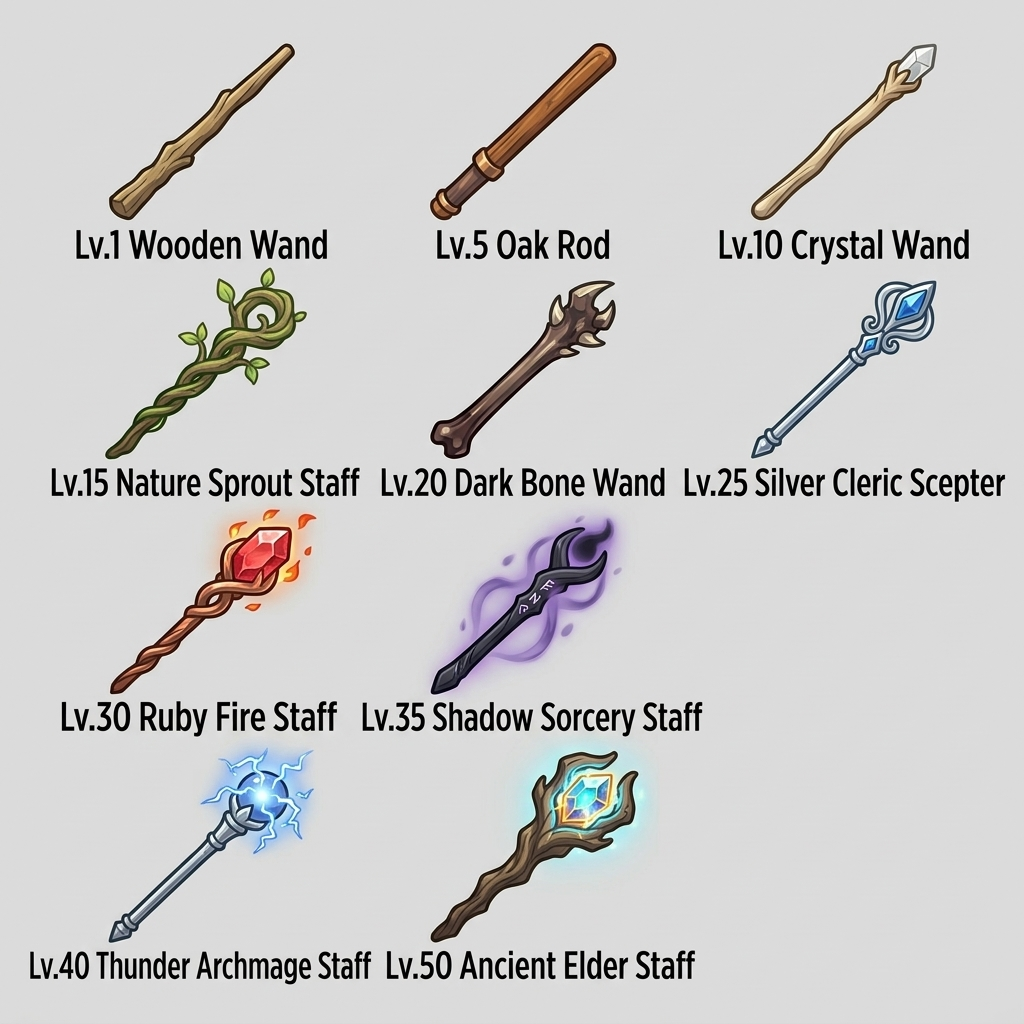
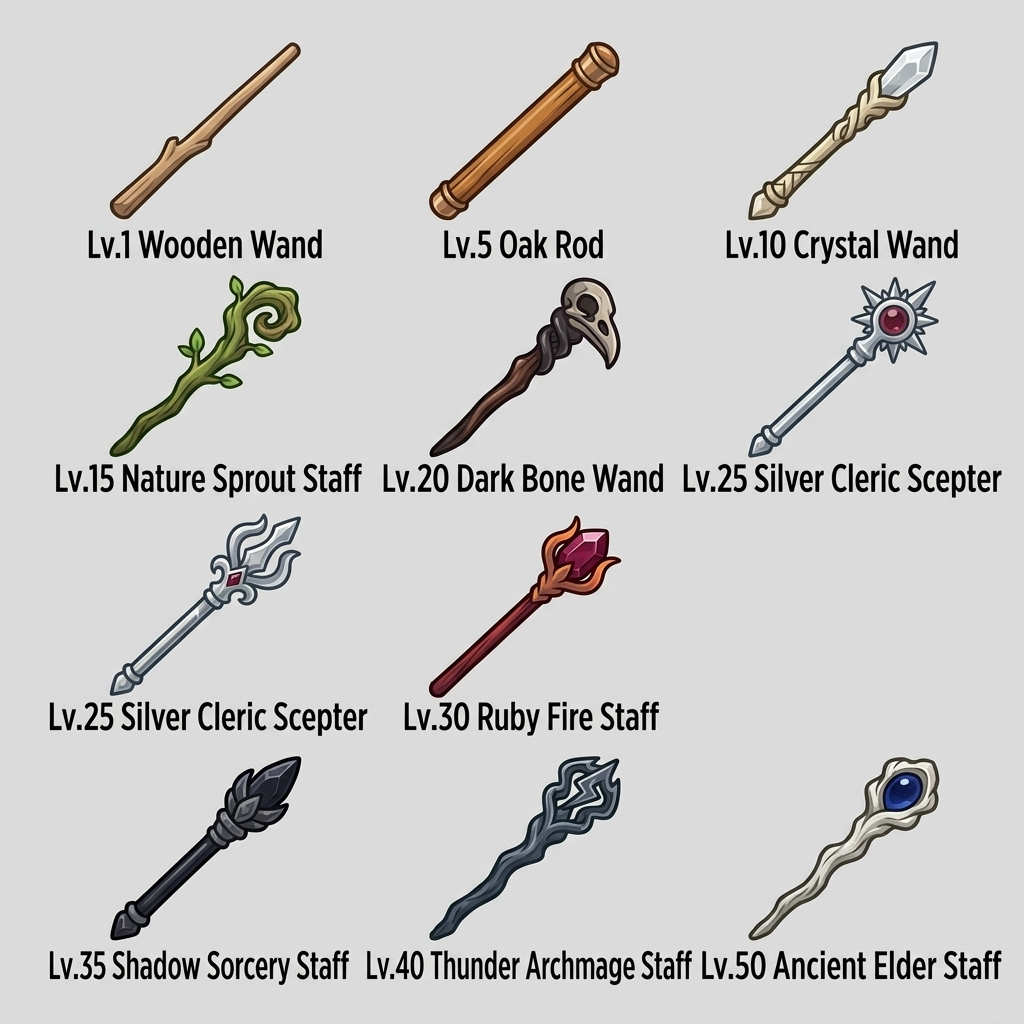
.

Changed region(s): [[0.0312, 0.0312, 1.0, 0.9688]]

diff --git a/ITEMS_AND_WEAPONS.md b/ITEMS_AND_WEAPONS.md
@@ -397,37 +397,43 @@ assets/weapons/
 
 ---
 
-## 5. คู่มือ Prompt สำหรับสร้างภาพ Sprite Sheet (Image Generation Guide)
+## 5. คู่มือ Prompt สำหรับสร้างภาพ Sprite Sheet (23 Pieces Layout, No Effects)
 
-เมื่อโควตาภาพรีเซ็ต หรือต้องการนำไปรันใน Midjourney / DALL-E / Gemini สามารถใช้ชุด Prompt ด้านล่างนี้ โดยกำหนด **Aspect Ratio 1:1 (1024x1024)**, พื้นหลังสีเทาอ่อนสะอาดตา (#E2E2E2) และโครงสร้าง 10 ชิ้นต่อแผ่นตามลำดับ:
+โครงสร้างเหมือนชุดดาบ (Sword) ทุกประการ:
+- **จำนวนชิ้น**: รวม 23 ชิ้นต่อประเภท แบ่งเป็น **Tier 1 (11 ชิ้น)** และ **Tier 2 (12 ชิ้น)**
+- **ขนาดและสเกล**: ทุกชิ้นมีขนาดเท่ากัน (Uniform scale) เอียง 45 องศา
+- **ไม่มี Visual Effect**: ไม่มีไฟ น้ำแข็ง สายฟ้า แสงออร่า ลำแสงปืน หรือประกายเวทใดๆ (Plain bare weapons)
+- **หนังสือ (Book)**: หน้าปกปิดสนิททุกเล่ม ไม่เปิดหน้ากระดาษ
+- **พื้นหลัง**: สีเทาอ่อนสะอาดตา `#E2E2E2`
 
-### 5.1 คฑา (Staff)
-- **Tier 1 (Lv.1 - 50):**
-  > `Create a 2D fantasy RPG magic staff and wand weapon sprite sheet, in the exact same art style and layout as the reference image. Clean solid light grey background (#E2E2E2). 10 unique magic staves and wands arranged neatly in a grid, each tilted diagonally at ~45 degrees pointing upper-right with base at lower-left. Bold dark outlines, vibrant anime RPG cel shading. Each staff has a bold text label underneath indicating level and name: Lv.1 Wooden Wand, Lv.5 Oak Rod, Lv.10 Crystal Wand, Lv.15 Nature Sprout Staff, Lv.20 Dark Bone Wand, Lv.25 Silver Cleric Scepter, Lv.30 Ruby Fire Staff, Lv.35 Shadow Sorcery Staff, Lv.40 Thunder Archmage Staff, Lv.50 Ancient Elder Staff. High resolution, crisp game icons, clear separation between items.`
-- **Tier 2 (Lv.55 - 100):**
-  > `Create a 2D fantasy RPG legendary magic staff sprite sheet, exact same art style and layout as the reference image. Clean solid light grey background (#E2E2E2). 10 epic glowing magic staves and scepters arranged neatly in a grid, tilted diagonally at ~45 degrees pointing upper-right with handle at lower-left. Intricate glowing crystals, magical auras, bold outlines, vibrant cel shading. Each staff has a bold text label underneath: Lv.55 Glacial Frost Staff, Lv.60 Tempest Storm Rod, Lv.65 Terra Gaia Scepter, Lv.70 Nether Abyss Staff, Lv.75 Archangel Holy Scepter, Lv.80 Dragon Heart Staff, Lv.85 Astral Starfall Rod, Lv.90 Phoenix Rebirth Scepter, Lv.95 Chronos Time Staff, Lv.100 Genesis Divine Staff. High resolution, distinct clean separation.`
+### 5.1 คฑา (Staff) - [สร้างเสร็จสมบูรณ์แล้ว]
+- **Tier 1 (11 ชิ้น):**
+  > `Create a 2D fantasy RPG magic staff and wand weapon sprite sheet, in the exact same layout and composition as the reference image with exactly 11 items (row 1: 3 items, row 2: 3 items, row 3: 2 items, row 4: 3 items). Clean solid light grey background (#E2E2E2). All 11 staves must be identical in uniform scale and size, tilted diagonally at 45 degrees pointing upper-right. CRITICAL REQUIREMENT: NO visual effects, NO fire, NO flames, NO ice, NO lightning, NO glow, NO magical aura, NO smoke or particles. Strictly plain bare physical weapons only (physical wood, metal, bone, polished gem, silver, stone). Each staff has bold text label underneath: Lv.1 Wooden Wand, Lv.5 Oak Rod, Lv.10 Crystal Wand, Lv.15 Nature Sprout Staff, Lv.20 Dark Bone Wand, Lv.25 Silver Cleric Scepter, Lv.25 Silver Cleric Scepter, Lv.30 Ruby Fire Staff, Lv.35 Shadow Sorcery Staff, Lv.40 Thunder Archmage Staff, Lv.50 Ancient Elder Staff. 2D vector RPG game asset style, bold dark outlines, crisp clean sprites.`
+- **Tier 2 (12 ชิ้น):**
+  > `Create a 2D fantasy RPG legendary magic staff and scepter sprite sheet, in the exact same layout and composition as the reference image with exactly 12 items arranged in a 4x3 grid (4 rows, 3 items per row). Clean solid light grey background (#E2E2E2). All 12 staves must be identical in uniform scale and size, tilted diagonally at 45 degrees pointing upper-right with base at lower-left. CRITICAL REQUIREMENT: NO visual effects, NO fire, NO flames, NO ice crystals floating, NO lightning bolts, NO glow, NO magical aura, NO halos, NO smoke or particles. Strictly plain bare physical weapons only (physical forged metals, carved gems, gold, dragon horns, mechanical gears). Labels underneath: Lv.55 Glacial Frost Staff, Lv.60 Tempest Storm Rod, Lv.65 Terra Gaia Scepter, Lv.70 Nether Abyss Staff, Lv.70 Nether Abyss Staff, Lv.75 Archangel Holy Scepter, Lv.80 Dragon Heart Staff, Lv.85 Astral Starfall Rod, Lv.90 Phoenix Rebirth Scepter, Lv.90 Phoenix Rebirth Scepter, Lv.95 Chronos Time Staff, Lv.100 Genesis Divine Staff. 2D vector RPG game art, bold dark outlines, crisp clean sprites.`
 
 ### 5.2 ธนู (Bow)
-- **Tier 1 (Lv.1 - 50):**
-  > `Create a 2D fantasy RPG bow and crossbow weapon sprite sheet, exact same art style and layout as the reference image. Clean solid light grey background (#E2E2E2). 10 unique bows and crossbows arranged neatly in a grid, tilted diagonally at ~45 degrees. Bold dark outlines, vibrant anime RPG cel shading. Labels underneath: Lv.1 Wooden Shortbow, Lv.5 Hunting Recurve Bow, Lv.10 Iron Longbow, Lv.15 Elven Yew Bow, Lv.20 Bandit Crossbow, Lv.25 Silver Ranger Bow, Lv.30 Bone Piercer Bow, Lv.35 Nightshade Bow, Lv.40 Crimson Flame Bow, Lv.50 Gale Windforce Greatbow. High resolution, clean separation between items.`
-- **Tier 2 (Lv.55 - 100):**
-  > `Create a 2D fantasy RPG legendary bow sprite sheet, exact same art style and layout as the reference image. Clean solid light grey background (#E2E2E2). 10 epic glowing bows with elemental energy, tilted diagonally at ~45 degrees. Labels underneath: Lv.55 Glacial Ice Bow, Lv.60 Thunder Strike Bow, Lv.65 Titan Heavy Crossbow, Lv.70 Abyssal Shadowstring, Lv.75 Seraphim Holy Bow, Lv.80 Dragon Breath Longbow, Lv.85 Astral Starlight Bow, Lv.90 Phoenix Feather Bow, Lv.95 Chrono Gear Crossbow, Lv.100 Genesis Celestial Bow. High resolution, clean separation.`
+- **Tier 1 (11 ชิ้น):**
+  > `Create a 2D fantasy RPG bow and crossbow weapon sprite sheet, in the exact same layout and composition as the reference image with exactly 11 items (row 1: 3 items, row 2: 3 items, row 3: 2 items, row 4: 3 items). Clean solid light grey background (#E2E2E2). All 11 bows must be identical in uniform scale and size, tilted diagonally at 45 degrees pointing upper-right. CRITICAL REQUIREMENT: NO visual effects, NO fire, NO flames, NO ice, NO lightning, NO glow, NO magical aura, NO smoke or particles, NO floating arrows or beams. Strictly plain bare physical weapons only (physical wood, iron, steel, bone, silver). Each bow has bold text label underneath: Lv.1 Wooden Shortbow, Lv.5 Hunting Recurve Bow, Lv.10 Iron Longbow, Lv.15 Elven Yew Bow, Lv.20 Bandit Crossbow, Lv.25 Silver Ranger Bow, Lv.25 Silver Ranger Bow, Lv.30 Bone Piercer Bow, Lv.35 Nightshade Bow, Lv.40 Crimson Flame Bow, Lv.50 Gale Windforce Greatbow. 2D vector RPG game art, bold dark outlines, crisp clean sprites.`
+- **Tier 2 (12 ชิ้น):**
+  > `Create a 2D fantasy RPG legendary bow and crossbow sprite sheet, in the exact same layout and composition as the reference image with exactly 12 items arranged in a 4x3 grid (4 rows, 3 items per row). Clean solid light grey background (#E2E2E2). All 12 bows must be identical in uniform scale and size, tilted diagonally at 45 degrees. CRITICAL REQUIREMENT: NO visual effects, NO fire, NO flames, NO ice, NO lightning, NO glow, NO energy auras, NO floating arrows or energy beams. Strictly plain bare physical bows only. Labels underneath: Lv.55 Glacial Ice Bow, Lv.60 Thunder Strike Bow, Lv.65 Titan Heavy Crossbow, Lv.70 Abyssal Shadowstring, Lv.70 Abyssal Shadowstring, Lv.75 Seraphim Holy Bow, Lv.80 Dragon Breath Longbow, Lv.85 Astral Starlight Bow, Lv.90 Phoenix Feather Bow, Lv.90 Phoenix Feather Bow, Lv.95 Chrono Gear Crossbow, Lv.100 Genesis Celestial Bow. High resolution, clean separation.`
 
 ### 5.3 หอก (Spear)
-- **Tier 1 (Lv.1 - 50):**
-  > `Create a 2D fantasy RPG spear, halberd and lance weapon sprite sheet, exact same art style and layout as the reference image. Clean solid light grey background (#E2E2E2). 10 unique polearms and spears arranged neatly in a grid, tilted diagonally at ~45 degrees pointing upper-right. Bold dark outlines, vibrant cel shading. Labels underneath: Lv.1 Wooden Pike, Lv.5 Iron Hunting Spear, Lv.10 Steel Halberd, Lv.15 Wild Boar Lance, Lv.20 Bandit Partisan, Lv.25 Silver Knight Lance, Lv.30 Bone Glaive, Lv.35 Shadow Piercing Spear, Lv.40 Crimson Dragonpike, Lv.50 Valkyrie War Spear. High resolution, clear separation.`
-- **Tier 2 (Lv.55 - 100):**
-  > `Create a 2D fantasy RPG legendary spear and divine lance sprite sheet, exact same art style and layout as the reference image. Clean solid light grey background (#E2E2E2). 10 epic glowing divine lances and tridents, tilted diagonally at ~45 degrees. Labels underneath: Lv.55 Frost Glacier Spear, Lv.60 Thunderstorm Trident, Lv.65 Titan Stone Halberd, Lv.70 Chaos Demon Lance, Lv.75 Holy Aegis Spear, Lv.80 Dragon Horn Warpike, Lv.85 Astral Void Glaive, Lv.90 Phoenix Radiant Spear, Lv.95 Chronos Pendulum Lance, Lv.100 Genesis Divine Spear. High resolution, clear separation.`
+- **Tier 1 (11 ชิ้น):**
+  > `Create a 2D fantasy RPG spear, halberd and lance weapon sprite sheet, in the exact same layout and composition as the reference image with exactly 11 items (row 1: 3 items, row 2: 3 items, row 3: 2 items, row 4: 3 items). Clean solid light grey background (#E2E2E2). All 11 polearms must be identical in uniform scale and size, tilted diagonally at 45 degrees pointing upper-right with base at lower-left. CRITICAL REQUIREMENT: NO visual effects, NO fire, NO flames, NO ice, NO lightning, NO glow, NO aura. Plain physical spears only. Labels underneath: Lv.1 Wooden Pike, Lv.5 Iron Hunting Spear, Lv.10 Steel Halberd, Lv.15 Wild Boar Lance, Lv.20 Bandit Partisan, Lv.25 Silver Knight Lance, Lv.25 Silver Knight Lance, Lv.30 Bone Glaive, Lv.35 Shadow Piercing Spear, Lv.40 Crimson Dragonpike, Lv.50 Valkyrie War Spear. High resolution, clear separation.`
+- **Tier 2 (12 ชิ้น):**
+  > `Create a 2D fantasy RPG legendary spear and lance sprite sheet, in the exact same layout and composition as the reference image with exactly 12 items arranged in a 4x3 grid (4 rows, 3 items per row). Clean solid light grey background (#E2E2E2). All 12 polearms must be identical in uniform scale and size, tilted diagonally at 45 degrees pointing upper-right. CRITICAL REQUIREMENT: NO visual effects, NO fire, NO flames, NO ice crystals, NO lightning bolts, NO glow, NO magical aura. Plain bare physical polearms only. Labels underneath: Lv.55 Frost Glacier Spear, Lv.60 Thunderstorm Trident, Lv.65 Titan Stone Halberd, Lv.70 Chaos Demon Lance, Lv.70 Chaos Demon Lance, Lv.75 Holy Aegis Spear, Lv.80 Dragon Horn Warpike, Lv.85 Astral Void Glaive, Lv.90 Phoenix Radiant Spear, Lv.90 Phoenix Radiant Spear, Lv.95 Chronos Pendulum Lance, Lv.100 Genesis Divine Spear. High resolution, clear separation.`
 
 ### 5.4 ปืน (Gun)
-- **Tier 1 (Lv.1 - 50):**
-  > `Create a 2D fantasy RPG firearms and guns sprite sheet, exact same art style and layout as the reference image. Clean solid light grey background (#E2E2E2). 10 unique fantasy pistols, muskets, revolvers and blunderbusses arranged neatly in a grid, tilted diagonally at ~45 degrees pointing upper-right with grip at lower-left. Bold dark outlines, vibrant cel shading. Labels underneath: Lv.1 Flintlock Pistol, Lv.5 Hunting Musket, Lv.10 Iron Revolver, Lv.15 Pirate Dual Pistols, Lv.20 Trench Blunderbuss, Lv.25 Silver Knight Rifle, Lv.30 Bone Carbine, Lv.35 Shadow Silencer Gun, Lv.40 Crimson Fire Blaster, Lv.50 Rune Steam Cannon. High resolution, clear separation.`
-- **Tier 2 (Lv.55 - 100):**
-  > `Create a 2D fantasy RPG sci-fi fantasy legendary blaster and cannon sprite sheet, exact same art style and layout as the reference image. Clean solid light grey background (#E2E2E2). 10 epic glowing energy railguns, cannons and laser blasters, tilted diagonally at ~45 degrees. Labels underneath: Lv.55 Cryo Frost Cannon, Lv.60 Voltaic Storm Blaster, Lv.65 Titan Siege Railgun, Lv.70 Abyssal Demon Revolver, Lv.75 Judgment Holy Handgun, Lv.80 Dragonfire Cannon, Lv.85 Astral Photon Laser, Lv.90 Phoenix Flame Blaster, Lv.95 Chrono Clockwork Gun, Lv.100 Genesis Divine Cannon. High resolution, clear separation.`
+- **Tier 1 (11 ชิ้น):**
+  > `Create a 2D fantasy RPG firearms and guns sprite sheet, in the exact same layout and composition as the reference image with exactly 11 items (row 1: 3 items, row 2: 3 items, row 3: 2 items, row 4: 3 items). Clean solid light grey background (#E2E2E2). All 11 guns must be identical in uniform scale and size, tilted diagonally at 45 degrees pointing upper-right with grip at lower-left. CRITICAL REQUIREMENT: NO visual effects, NO muzzle flash, NO laser beams, NO bullets firing, NO fire, NO flames, NO smoke, NO lightning, NO glow. Plain physical guns only. Labels underneath: Lv.1 Flintlock Pistol, Lv.5 Hunting Musket, Lv.10 Iron Revolver, Lv.15 Pirate Dual Pistols, Lv.20 Trench Blunderbuss, Lv.25 Silver Knight Rifle, Lv.25 Silver Knight Rifle, Lv.30 Bone Carbine, Lv.35 Shadow Silencer Gun, Lv.40 Crimson Fire Blaster, Lv.50 Rune Steam Cannon. High resolution, clear separation.`
+- **Tier 2 (12 ชิ้น):**
+  > `Create a 2D fantasy RPG legendary blaster and cannon sprite sheet, in the exact same layout and composition as the reference image with exactly 12 items arranged in a 4x3 grid (4 rows, 3 items per row). Clean solid light grey background (#E2E2E2). All 12 guns must be identical in uniform scale and size, tilted diagonally at 45 degrees pointing upper-right with grip at lower-left. CRITICAL REQUIREMENT: NO visual effects, NO laser beams shooting out of barrels, NO muzzle blast, NO light rays, NO flames, NO lightning, NO glowing aura. Plain physical gun bodies only. Labels underneath: Lv.55 Cryo Frost Cannon, Lv.60 Voltaic Storm Blaster, Lv.65 Titan Siege Railgun, Lv.70 Abyssal Demon Revolver, Lv.70 Abyssal Demon Revolver, Lv.75 Judgment Holy Handgun, Lv.80 Dragonfire Cannon, Lv.85 Astral Photon Laser, Lv.90 Phoenix Flame Blaster, Lv.90 Phoenix Flame Blaster, Lv.95 Chrono Clockwork Gun, Lv.100 Genesis Divine Cannon. High resolution, clear separation.`
 
 ### 5.5 หนังสือ (Book / Grimoire)
-- **Tier 1 (Lv.1 - 50):**
-  > `Create a 2D fantasy RPG magic books and grimoires sprite sheet, exact same art style and layout as the reference image. Clean solid light grey background (#E2E2E2). 10 unique spellbooks and tomes arranged neatly in a grid, tilted diagonally at ~45 degrees showing leather covers, metal bookmarks, glowing runic symbols. Bold dark outlines, vibrant cel shading. Labels underneath: Lv.1 Apprentice Notebook, Lv.5 Leather Grimoire, Lv.10 Magic Theory Tome, Lv.15 Herbalist Codex, Lv.20 Dark Pact Scripture, Lv.25 Holy Scripture Book, Lv.30 Forbidden Necronomicon, Lv.35 Shadow Whisper Tome, Lv.40 Crimson Grimoire, Lv.50 Ancient Rune Archive. High resolution, clear separation.`
-- **Tier 2 (Lv.55 - 100):**
-  > `Create a 2D fantasy RPG legendary divine grimoires and cosmic tomes sprite sheet, exact same art style and layout as the reference image. Clean solid light grey background (#E2E2E2). 10 epic glowing divine spellbooks, floating pages, cosmic sigils and elemental covers, tilted diagonally at ~45 degrees. Labels underneath: Lv.55 Blizzard Glacial Tome, Lv.60 Thunder Scripture, Lv.65 Titan Earth Grimoire, Lv.70 Chaos Demonic Codex, Lv.75 Book of Heavenly Light, Lv.80 Dragon Secret Tome, Lv.85 Astral Cosmos Scripture, Lv.90 Book of Phoenix, Lv.95 Chronos Time Archive, Lv.100 Genesis Divine Grimoire. High resolution, clear separation.`
+- **Tier 1 (11 ชิ้น):**
+  > `Create a 2D fantasy RPG magic books and grimoires sprite sheet, in the exact same layout and composition as the reference image with exactly 11 items (row 1: 3 items, row 2: 3 items, row 3: 2 items, row 4: 3 items). Clean solid light grey background (#E2E2E2). All 11 books must be identical in uniform scale and size, tilted diagonally at 45 degrees. CRITICAL REQUIREMENT: ALL BOOKS MUST BE COMPLETELY CLOSED with closed hardcovers and visible spines, NO open books, NO open pages, NO floating pages. CRITICAL REQUIREMENT: NO visual effects, NO fire, NO flames, NO smoke, NO lightning, NO glow, NO magical aura. Plain closed hardcover books only (leather, iron trims, wood, bone, buckles). Labels underneath: Lv.1 Apprentice Notebook, Lv.5 Leather Grimoire, Lv.10 Magic Theory Tome, Lv.15 Herbalist Codex, Lv.20 Dark Pact Scripture, Lv.25 Holy Scripture Book, Lv.25 Holy Scripture Book, Lv.30 Forbidden Necronomicon, Lv.35 Shadow Whisper Tome, Lv.40 Crimson Grimoire, Lv.50 Ancient Rune Archive. High resolution, clear separation.`
+- **Tier 2 (12 ชิ้น):**
+  > `Create a 2D fantasy RPG legendary divine grimoires and cosmic tomes sprite sheet, in the exact same layout and composition as the reference image with exactly 12 items arranged in a 4x3 grid (4 rows, 3 items per row). Clean solid light grey background (#E2E2E2). All 12 books must be identical in uniform scale and size, tilted diagonally at 45 degrees. CRITICAL REQUIREMENT: ALL BOOKS MUST BE COMPLETELY CLOSED with closed hardcovers and visible spines, NO open books, NO open pages, NO floating pages. CRITICAL REQUIREMENT: NO visual effects, NO fire, NO flames, NO smoke, NO lightning, NO halos, NO glow, NO aura. Plain closed ornate books only. Labels underneath: Lv.55 Blizzard Glacial Tome, Lv.60 Thunder Scripture, Lv.65 Titan Earth Grimoire, Lv.70 Chaos Demonic Codex, Lv.70 Chaos Demonic Codex, Lv.75 Book of Heavenly Light, Lv.80 Dragon Secret Tome, Lv.85 Astral Cosmos Scripture, Lv.90 Book of Phoenix, Lv.90 Book of Phoenix, Lv.95 Chronos Time Archive, Lv.100 Genesis Divine Grimoire. High resolution, clear separation.`
+
 
